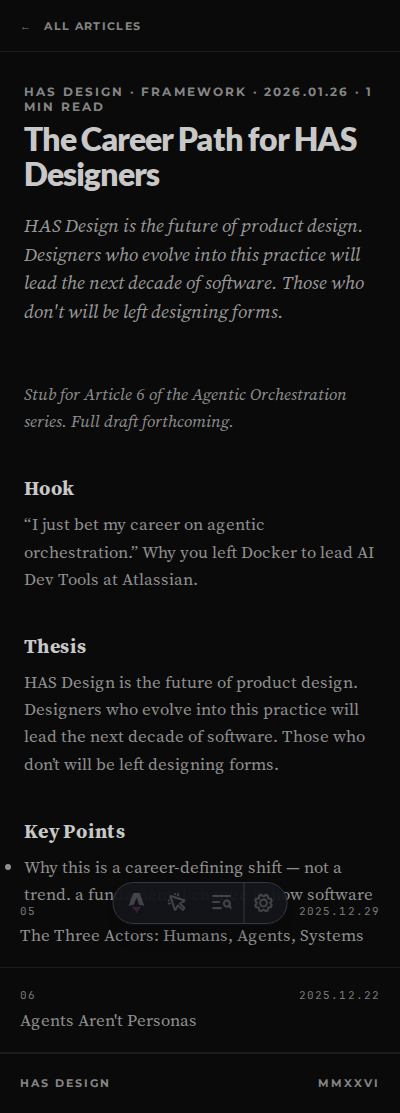
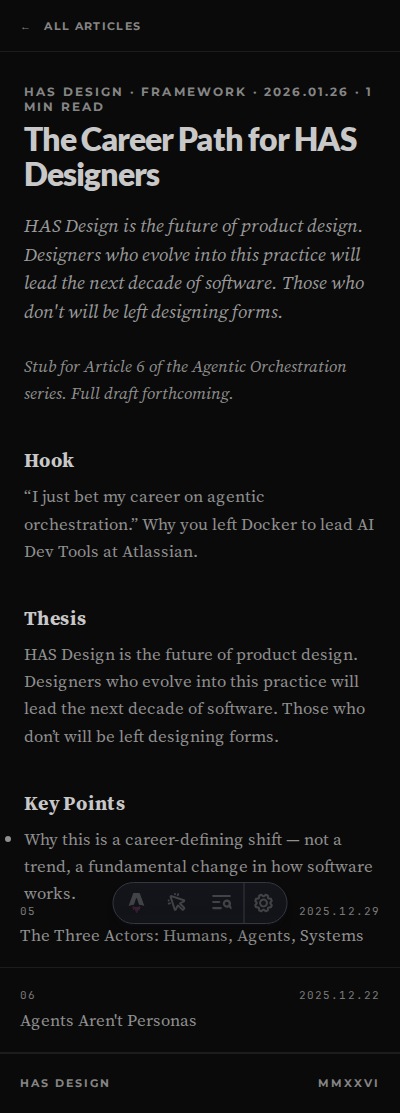
fix(reader): drop .art-body margin-top + mobile lede border (ILI-684)
Follow-up to full ILI-684 spec:
- Remove .art-body margin-top (desktop + mobile) — lede's margin-bottom
  now owns the gap, preventing double spacing
- Rewrite mobile .art-lede to use margin shorthand, matching desktop

Changed region(s): [[0.06, 0.3055, 0.93, 0.8248]]

diff --git a/src/styles/homepage.css b/src/styles/homepage.css
@@ -267,7 +267,6 @@ button { font: inherit; color: inherit; background: none; border: none; cursor: 
   font-size: 18px;
   line-height: 1.65;
   color: #909090;
-  margin-top: 2.5rem;
 }
 .art-body p { margin-bottom: 1.25em; }
 .art-body p:last-child { margin-bottom: 0; }
@@ -505,10 +504,9 @@ button { font: inherit; color: inherit; background: none; border: none; cursor: 
   .art-lede {
     font-size: 19px;
     line-height: 1.5;
-    margin-bottom: 0;
-    padding-bottom: 1.75rem;
+    margin: 0 0 1.75rem;
   }
-  .art-body { font-size: 17px; line-height: 1.6; margin-top: 1.75rem; }
+  .art-body { font-size: 17px; line-height: 1.6; }
   .art-body p { margin-bottom: 1.15em; }
   .art-body h2 { font-size: 20px; line-height: 1.3; margin: 2em 0 0.5em; }
   .art-end { margin-top: 3rem; font-size: 12px; }
